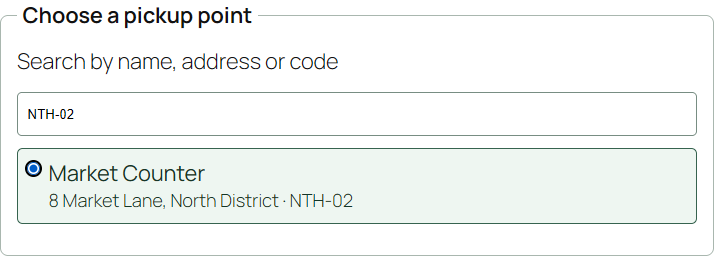
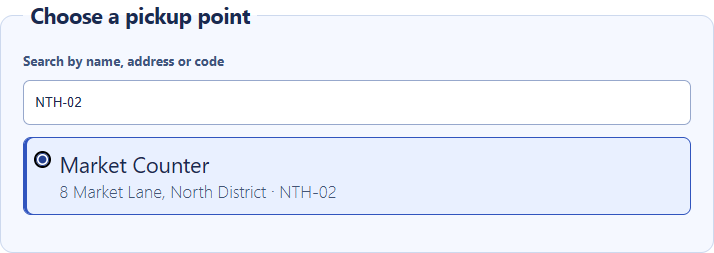
Publish woo-pickup-point-checkout portfolio work

diff --git a/assets/pickup.css b/assets/pickup.css
@@ -1,51 +1,77 @@
 .codexawp-pickup {
+	--pickup-ink: #182a50;
+	--pickup-line: #cdd9ee;
+	--pickup-blue: #3155be;
 	box-sizing: border-box;
+	min-inline-size: 0;
 	margin: 0 0 1.25rem;
-	padding: 1rem;
-	border: 1px solid #a9b7af;
-	border-radius: .5rem;
+	padding: clamp(12px, 2.6vw, 22px);
+	border: 1px solid var(--pickup-line);
+	border-radius: 13px;
+	background: #f5f8ff;
+	color: var(--pickup-ink);
+	font-family: system-ui, sans-serif;
 }
 .codexawp-pickup legend {
-	padding-inline: .35rem;
-	font-weight: 650;
+	padding-inline: .45rem;
+	color: var(--pickup-ink);
+	font-weight: 700;
+	letter-spacing: -.018em;
 }
 .codexawp-pickup > label {
 	display: block;
-	margin-bottom: .3rem;
+	margin-bottom: .35rem;
+	color: #40547c;
+	font-size: .83rem;
+	font-weight: 650;
 }
 .codexawp-pickup input[type="search"] {
 	box-sizing: border-box;
 	width: 100%;
-	min-height: 2.75rem;
-	padding: .4rem .6rem;
-	border: 1px solid #788d83;
-	border-radius: .3rem;
+	min-height: 2.8rem;
+	padding: .5rem .7rem;
+	border: 1px solid #97a8cc;
+	border-radius: 7px;
+	background: #fff;
+	color: var(--pickup-ink);
+}
+.codexawp-pickup :is(input[type="search"], .codexawp-pickup-option):focus-visible,
+.codexawp-pickup-option:has(input:focus-visible) {
+	outline: 2px solid var(--pickup-blue);
+	outline-offset: 3px;
 }
 .codexawp-pickup-options {
 	display: grid;
-	gap: .45rem;
+	gap: .5rem;
 	margin-top: .75rem;
 }
 .codexawp-pickup-option {
 	display: flex;
 	align-items: flex-start;
-	gap: .55rem;
-	padding: .55rem;
-	border: 1px solid #c4cec8;
-	border-radius: .35rem;
+	gap: .65rem;
+	padding: .65rem .75rem;
+	border: 1px solid var(--pickup-line);
+	border-radius: 8px;
+	background: #fff;
 	cursor: pointer;
+	overflow-wrap: anywhere;
 }
+.codexawp-pickup-option:hover { border-color: #7894d7; }
 .codexawp-pickup-option:has(:checked) {
-	border-color: #36634f;
-	background: #eef6f1;
-	color: #143527;
+	border-color: var(--pickup-blue);
+	box-shadow: inset 3px 0 0 var(--pickup-blue);
+	background: #e9f0ff;
+	color: var(--pickup-ink);
 }
 .codexawp-pickup-option input[type="radio"] {
+	accent-color: var(--pickup-blue);
 	flex: 0 0 auto;
 	margin: .25rem 0 0;
 }
 .codexawp-pickup-option small {
 	display: block;
+	color: #435576;
+	font-size: .8em;
 }
 #codexawp-pickup-classic[hidden],
 .codexawp-pickup [hidden] {

diff --git a/woo-pickup-point-checkout.php b/woo-pickup-point-checkout.php
@@ -177,7 +177,7 @@ add_filter( 'woocommerce_update_order_review_fragments', static function ( array
 add_action( 'init', static function (): void {
 	wp_register_script( 'codexawp-pickup-editor', plugins_url( 'assets/editor.js', __FILE__ ), [ 'wp-blocks', 'wp-element', 'wp-i18n' ], '1.0.0', true );
 	wp_register_script( 'codexawp-pickup-block', plugins_url( 'assets/checkout-block.js', __FILE__ ), [ 'wc-blocks-checkout', 'wc-blocks-data-store', 'wp-data', 'wp-element', 'wp-i18n' ], '1.0.0', true );
-	wp_register_style( 'codexawp-pickup', plugins_url( 'assets/pickup.css', __FILE__ ), [], '1.0.0' );
+	wp_register_style( 'codexawp-pickup', plugins_url( 'assets/pickup.css', __FILE__ ), [], '1.1.0' );
 	register_block_type( __DIR__ . '/block.json', [
 		'render_callback' => static fn(): string => '<div data-block-name="codexawp/pickup-point"></div>',
 	] );
